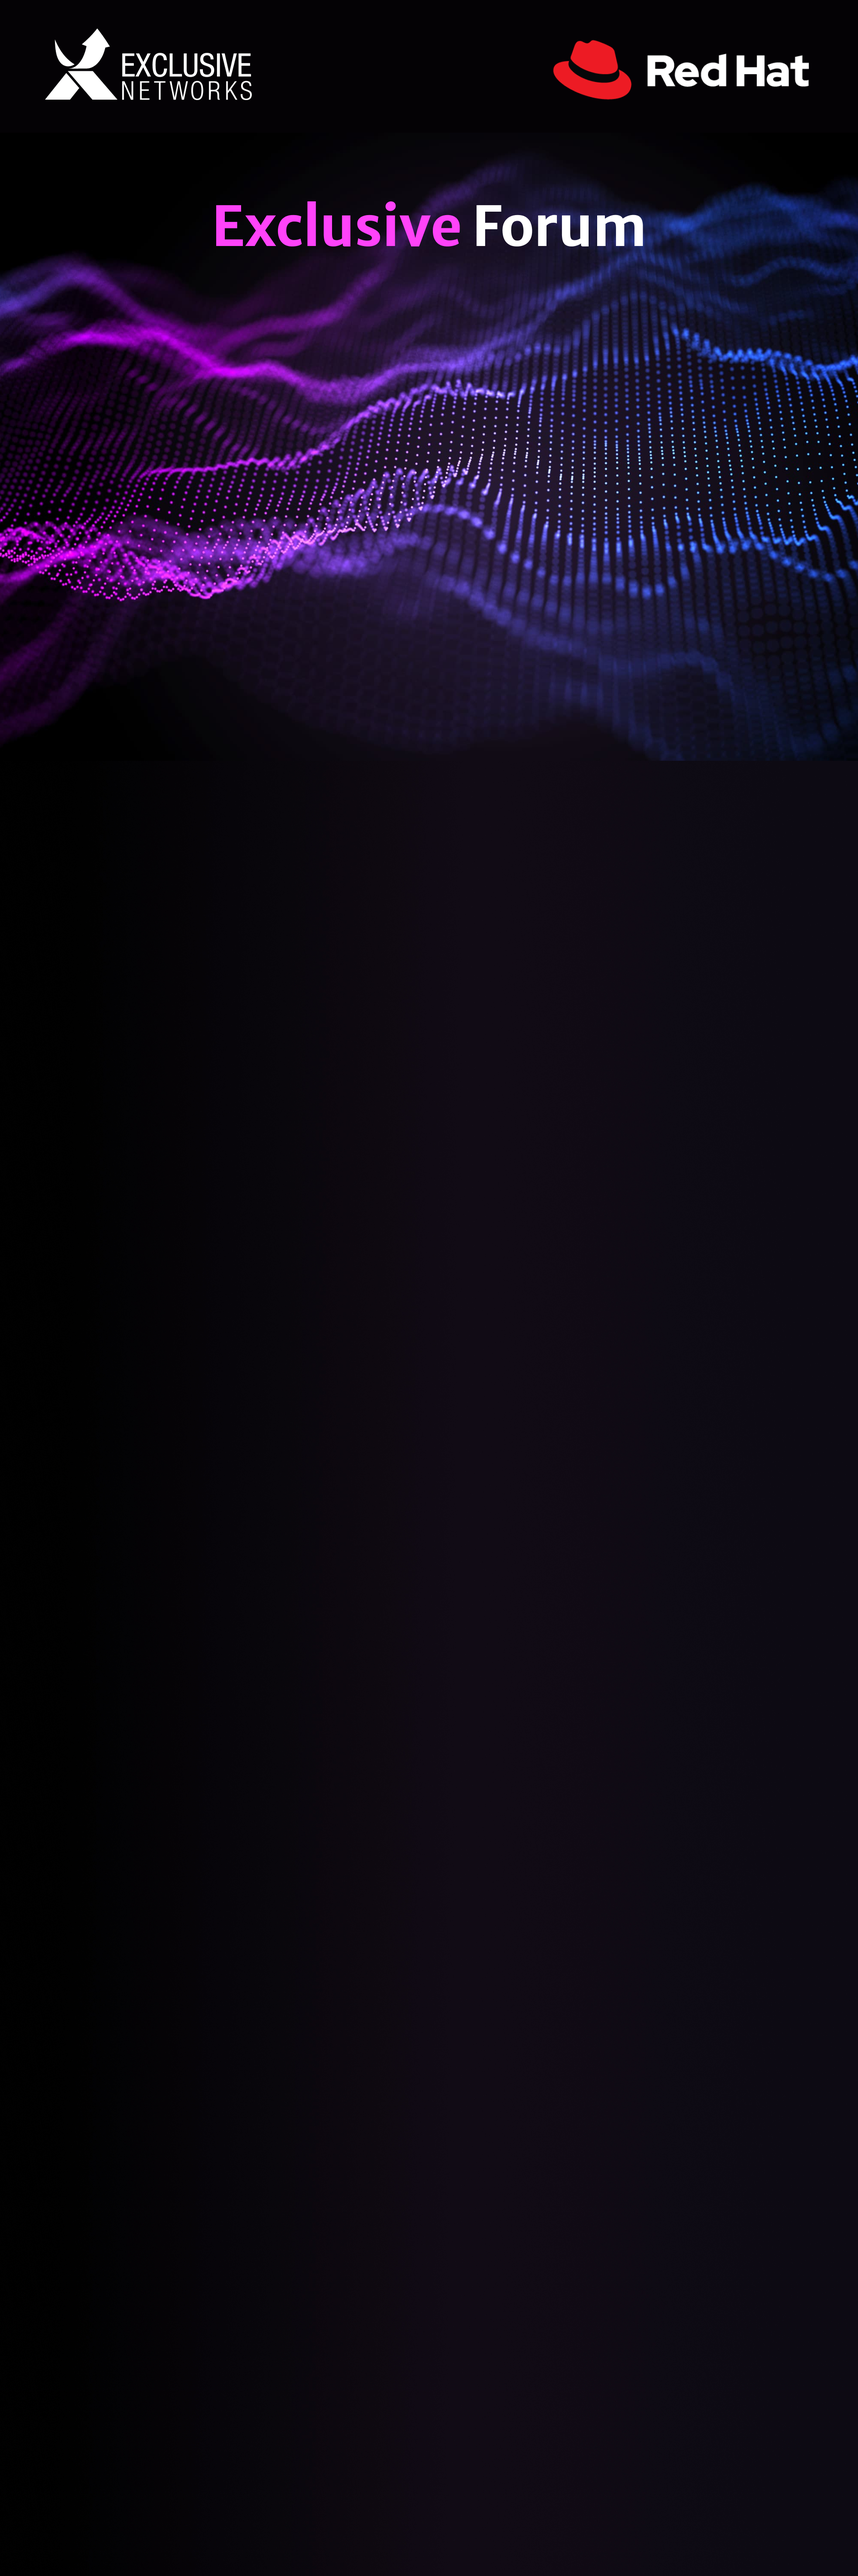
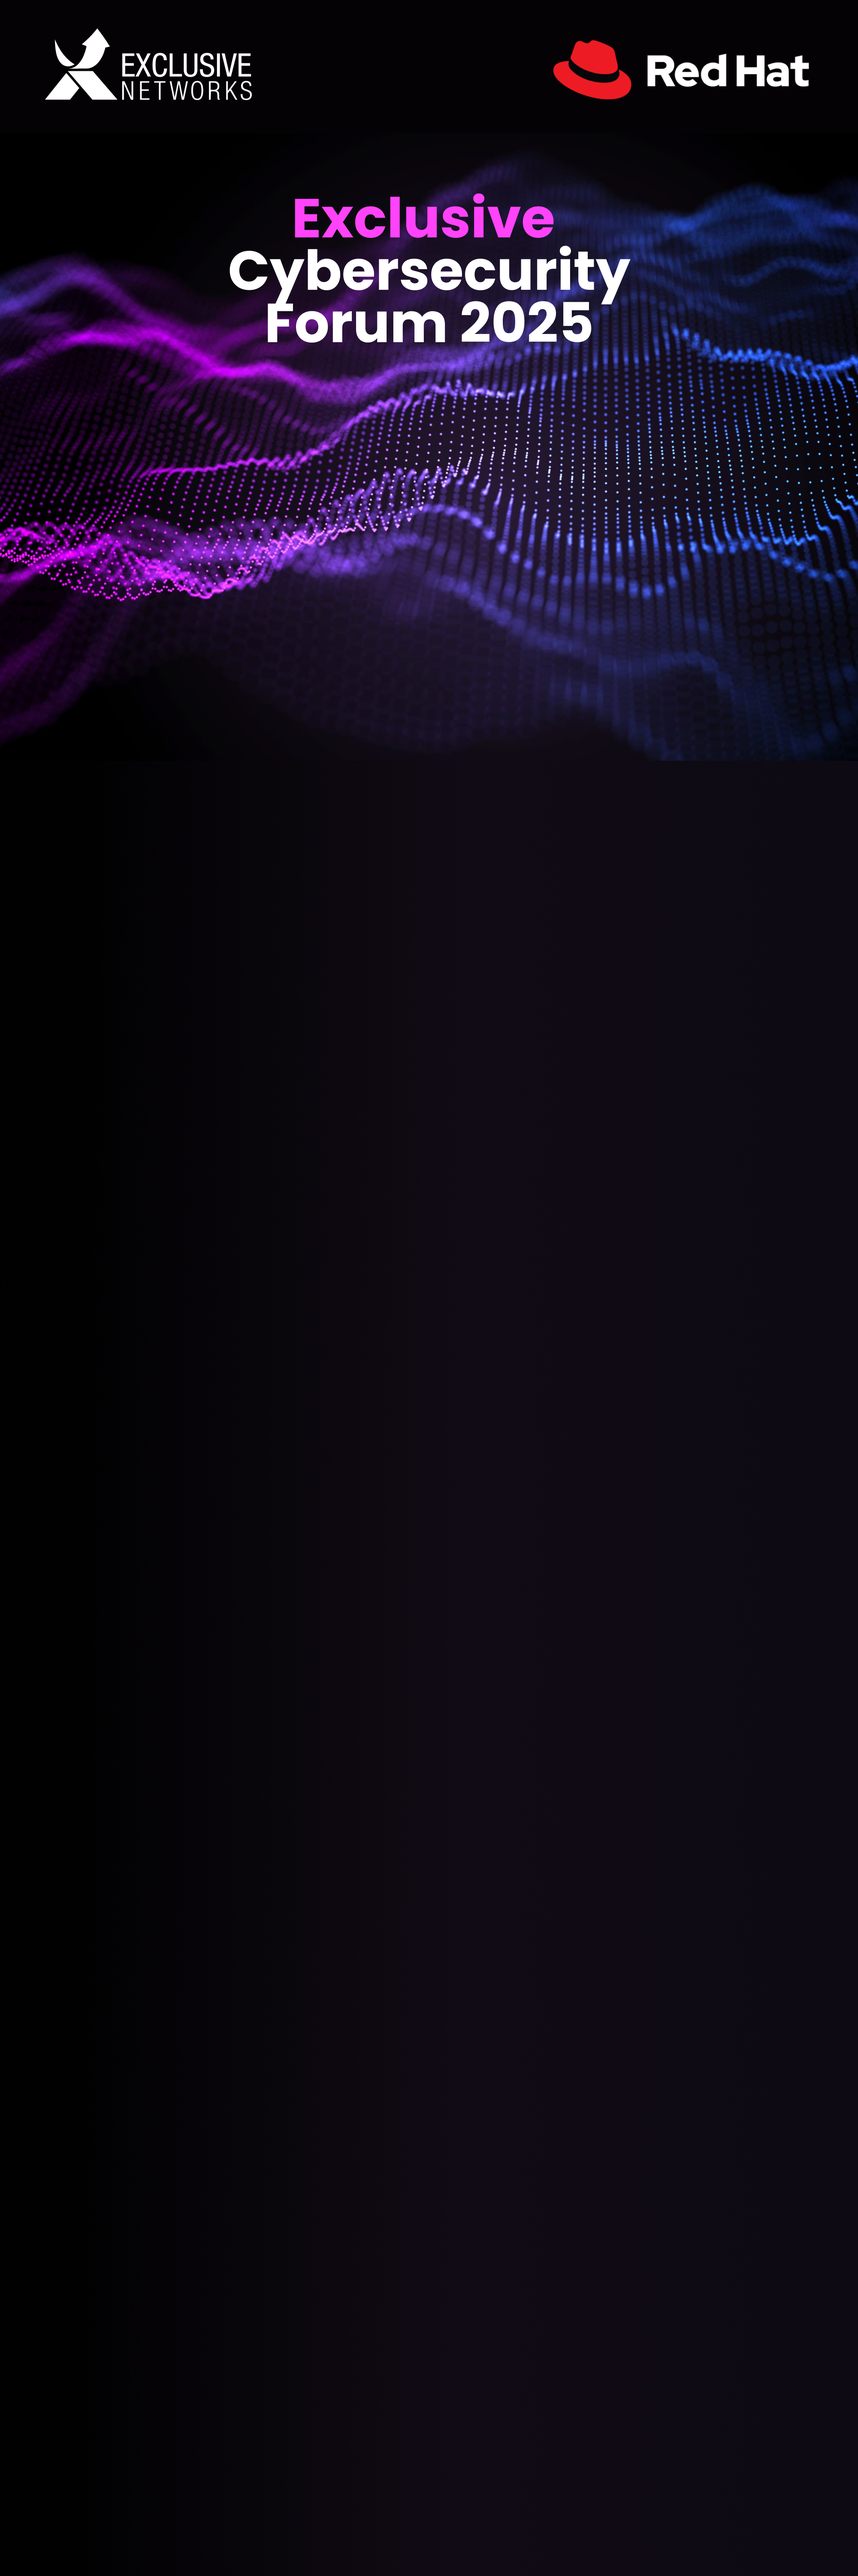
branding tweaks

Changed region(s): [[0.248, 0.0623, 0.744, 0.1558]]

diff --git a/camel/edge-shopper/src/main/resources/META-INF/resources/style.css b/camel/edge-shopper/src/main/resources/META-INF/resources/style.css
@@ -107,7 +107,7 @@ body {
 
 #btn-detection {
     width: 200px;
-    background-color: #ff42f8;
+    background-color: #bc111a;
     color: white;
     font-size: 16px;
     border-radius: 30px;
@@ -118,12 +118,12 @@ body {
     position: fixed;
     bottom: calc(55%);
     left: calc(50% - 100px);
-    box-shadow: 0 5px #ed1c25;
+    box-shadow: 0 5px #ff42f8;
 }
 
 #btn-ingestion {
     width: 200px;
-    background-color: #ff42f8;
+    background-color: #bc111a;
     color: white;
     font-size: 16px;
     border-radius: 30px;
@@ -134,7 +134,7 @@ body {
     position: fixed;
     bottom: calc(54% - 60px);
     left: calc(50% - 100px);
-    box-shadow: 0 5px #ed1c25;
+    box-shadow: 0 5px #ff42f8;
 }
 
 #btn-monitor {
